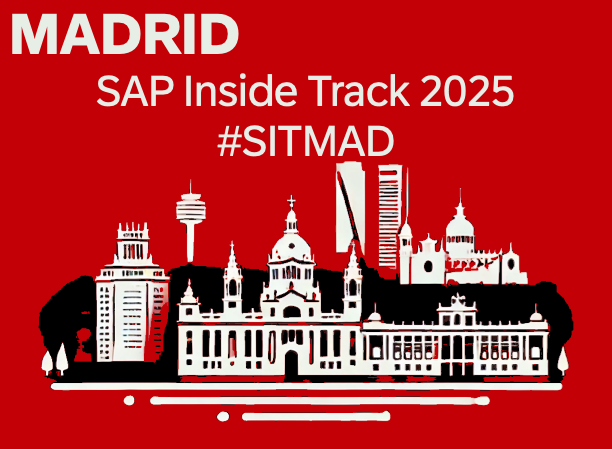
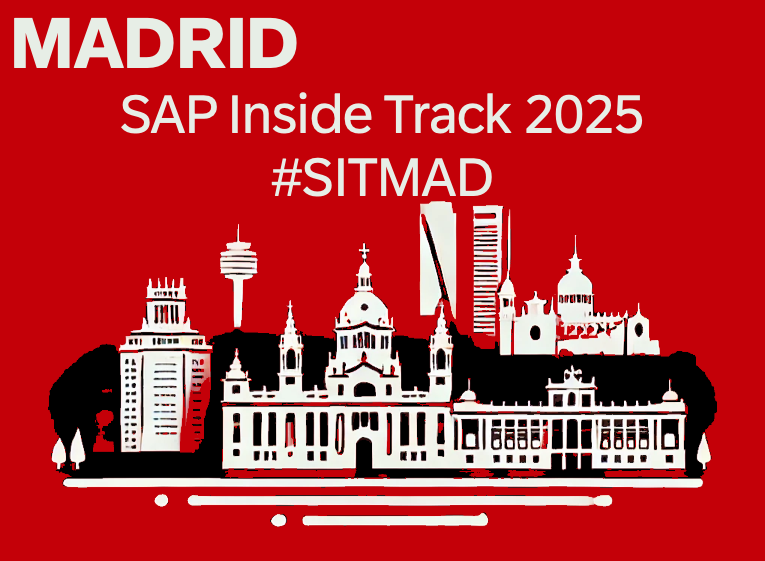
Fixing red-black-background image

diff --git a/styles/theme.css b/styles/theme.css
@@ -1,5 +1,1 @@
-<<<<<<< HEAD
-:root{--color-primary:#d10002;--color-secondary:#fff;--color-dark:#333;--color-light:#f8f9fa;--color-accent:#ffb84d;--font-family-display:system-ui,sans-serif;--font-family-ui:system-ui,sans-serif;--font-weight-bold:600}
-=======
 :root{--color-primary:#d11e02;--color-secondary:#fff;--color-dark:#333;--color-light:#f8f9fa;--color-accent:#ffb84d;--font-family-display:system-ui,sans-serif;--font-family-ui:system-ui,sans-serif;--font-weight-bold:600}
->>>>>>> bf89a73 (Updating colours to align with main image)
